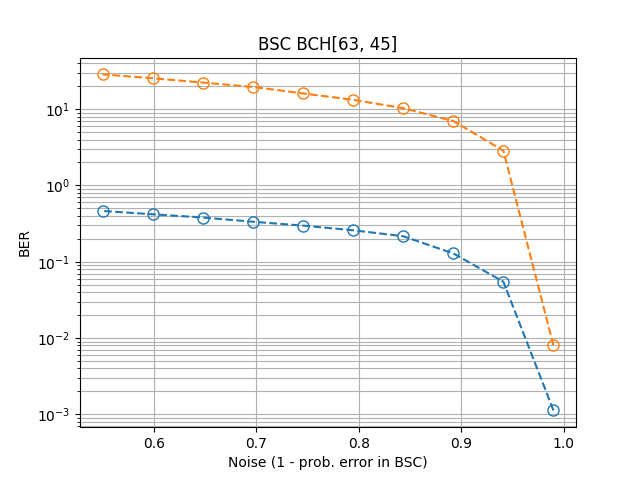
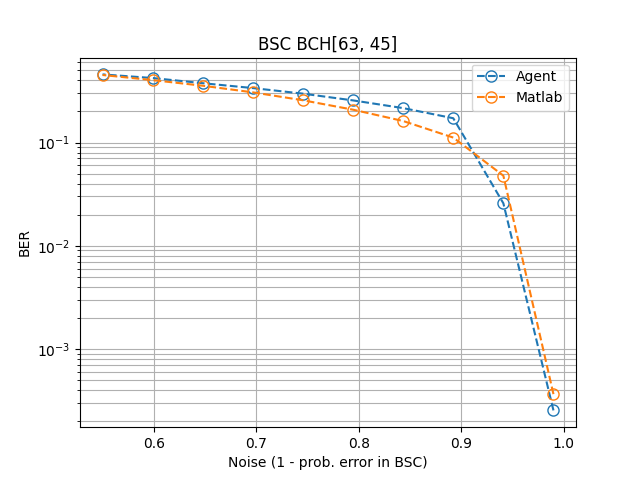
March 26th

Changed region(s): [[0.0625, 0.125, 0.9062, 0.9062], [0.0625, 0.8438, 0.0938, 0.875]]

diff --git a/MATLAB/rmdec_reed.m b/MATLAB/rmdec_reed.m
@@ -1,0 +1,55 @@
+function [decodedCodeword,decodedMessage] = rmdec_reed(y,r,m)
+% function [decodedCodeword,decodedMessage] = rmdec_reed(codeword,r,m)
+% 
+% RMDEC_REED decodes an RM(r,m) codeword using Reed's majority-logic algorithm.
+% 
+% Source:   [1] Reed-Muller Codes: Theory and Algorithms by Emmanuel Abbe, Amir
+%               Shpilka and Min Ye, 2020.
+%           [2] Reed-Muller Codes, Sebastian Raaphorst, Carleton University, 2003.
+% 
+% Written by Yuval Ben-Hur, 03/03/2020
+% 
+
+if ~isequal(size(y),[2^m,1]) && ~isequal(size(y),[1,2^m])
+    error('Invalid input size.');
+end
+if ~all(y==1 | y==0)
+    error('Only binary RM supported.'); 
+end
+
+y = y(:).';
+
+Z = de2bi(2^m-1:-1:0,'right-msb').';
+[~,AscendingOrder] = sort(sum(Z,1),'ascend');
+Z_ = Z(:,AscendingOrder);
+Z_r = Z_(:,sum(Z_,1)<=r);
+
+kRM = size(Z_r,2);
+decodedMessage = zeros(1,kRM); % initialize decoded message
+for ii = kRM : -1 : 1
+    % define monom
+    A = find(Z_r(:,ii)); % monom variables
+    t = numel(A); % monom rank
+    % define cosets
+    logic = [];
+    if t==0 % A is the empty set {}
+        z = 1 : 2^m;
+        logic = y(z);
+    elseif t==m % A is the full set {1,...,m}
+        logic = mod(sum(y),2);
+    else
+        cosets = de2bi(0:1:2^(m-t)-1,m-t,'right-msb').';
+        % sum over each coset
+        for b = cosets
+            z = all(Z(setdiff(1:m,A),:) == b,1);
+            logic = [logic mod(sum(y(z)),2)];
+        end
+    end
+    decodedMessage(ii) = mode(logic); % decoded bit is majority of logic
+    % if next rank is different, reduce monomials of previous rank
+    if ii==1 || numel(find(Z_r(:,ii-1)))<t
+        y = mod(y - rmenc_v2(decodedMessage.*(sum(Z_r,1)==t),r,m),2);
+    end
+end
+
+decodedCodeword = rmenc_v2(decodedMessage,r,m);

diff --git a/MATLAB/benchmark.m b/MATLAB/benchmark.m
@@ -1,0 +1,56 @@
+clear; close all; clc;
+
+run_bch = false;
+run_rm = true;
+
+%% BCH
+if run_bch == true
+    n = 63;   % Codeword length
+    k = 45;   % Message length
+    nwords = 1000; % Number of words to encode
+    msgTx = gf(randi([0 1],nwords,k));
+    enc = bchenc(msgTx,n,k);
+    BER = zeros(10);
+    trial = 1;
+    for noise_i = linspace(0.01, 0.45, 10)
+        noisycode = bsc(enc,noise_i); % Binary symmetric channel
+        [decoded,cnumerr,ccode]= bchdec(noisycode,n,k);
+        x = sum(xor(enc.x, ccode.x), 2);
+        BER(trial) = sum(x, 1) / (n*length(x));
+        trial = trial + 1;
+    end
+    
+    save('../benchmark/BER_BCH_63_45.mat', "BER");
+    
+    
+    figure;
+    semilogy(linspace(0.45, 0.01, 10), BER, '--o')
+end
+%% Reed-Muller 
+if run_rm == true
+    clear; clc;
+    load("../Hmat/RM_3_6_std.mat")
+    [k, n] = size(G);
+    nwords = 1000; % Number of words to encode
+    
+    msgTx = randi([0 1],nwords,k);
+    enc = mod(msgTx*G, 2);
+    BER = zeros(10);
+    trial = 1;
+    for noise_i = linspace(0.01, 0.45, 10)
+        noisycode = bsc(enc,noise_i); % Binary symmetric channel
+        x = 0;
+        parfor code_i = 1:nwords
+            [decoded_cw, ~]= rmdec_reed(noisycode(code_i, :),3,6);
+            x = x + sum(xor(enc(code_i, :), decoded_cw), 2);
+        end
+        BER(trial) = sum(x, 1) / (n* length(x));
+        trial = trial + 1;
+    end
+    
+    save('../benchmark/BER_RM_3_6.mat', "BER");
+    
+    
+    figure;
+    semilogy(linspace(0.45, 0.01, 10), BER, '--o')
+end

diff --git a/sarsa.py b/sarsa.py
@@ -61,19 +61,25 @@ def test(env, num_runs, optimal_Q, EbN0=0.1):
     BER = 0
     policy = lambda state : np.argmax(optimal_Q[state])
     env.set_noise(EbN0)
+    max_iters = 10
     for iter in range(num_runs):
         state = env.reset()
         if np.all(optimal_Q[state][0]) == 0:
             print("Agent has not seen codeword yet.")
             break
         action = policy(state)
+        i = 0
         while True:
             next_state, _, done, _ = env.step(action)
-            if not done:
+            if not done and i < max_iters:
                 next_action = policy(next_state)
                 state = next_state
                 action = next_action
             if done:
                 break
+            if i >= max_iters:
+                print("Agent unable to decode")
+                break
+            i += 1
         BER += np.sum(env.z ^ env.codeword) / len(env.z)
     return BER/num_runs

diff --git a/MATLAB/Eval.m b/MATLAB/Eval.m
@@ -1,0 +1,31 @@
+function [ c ] = Eval(f,z)
+% function [ c ] = Eval(f,z)
+%EVAL outputs the evaluation of a polynomial f in vector z. In case the 
+% function is called only with the polynomial, it outputs all evaluations
+% of the polynomial.
+% 
+% Example: In case f = m_1 + m_2 + ... + m_n 
+%       where each m_i = (x_0)^p_{1,i} + ... * (x_{m-1})^p_{m,i} is a monom
+% 
+% for example, 
+%   let f = x_3 + x_1*x_2 and m=4. the corresponding
+%   matrix is [ [0;0;0;1], [0;1;1;0] ].
+% 
+%   let f = 1 + x_0*x_1*x_2 and m=3. the corresponding
+%   matrix is [ [0;0;0], [1;1;1] ].
+% 
+
+m = size(f,1); % # of variables
+n = size(f,2); % # of monoms
+
+if nargin<2 % {f(z) : z \in F_2 ^m}
+    Z = de2bi(0 : 1 : 2^m-1).';
+else % f(z)
+    Z = z;
+end
+c = zeros(1,size(Z,2));
+for zz = 1 : 1 : size(Z,2)
+    z = Z(:,zz);
+    c(zz) = sum(prod(repmat(z,[1,n]) .^ f,1),2);
+end
+c = mod(c,2);

diff --git a/main.py b/main.py
@@ -29,8 +29,8 @@ def plot_BER(x_vars, y_vars, units, title):
     plt.title(title)
     plt.grid(visible=True, which='both', axis='y')
     plt.grid(visible=True, which='major', axis='x')
-    plt.savefig('./figs/' + figure_name + '.png')
     plt.legend()
+    plt.savefig('./figs/' + figure_name + '.png')
     plt.show()
 
 
@@ -63,8 +63,8 @@ if __name__ == '__main__':
             Q_sarsa = pickle.load(file)
     elif train == True:
         Q_sarsa = sarsa.train(env, int(3e6), 0.1)
-        with open('./policies/' + policy_name + '.pkl', 'wb') as file:
-            pickle.dump(Q_sarsa, file)
+        # with open('./policies/' + policy_name + '.pkl', 'wb') as file:
+        #     pickle.dump(Q_sarsa, file)
     
     ## Evaluate model ##
     BER = []

diff --git a/MATLAB/rmenc_v2.m b/MATLAB/rmenc_v2.m
@@ -1,0 +1,19 @@
+function codeword = rmenc_v2(message,r,m)
+% function codeword = rmenc_v2(message,r,m)
+% 
+% RMENC encodes a binary message to an RM(r,m) codeword by polynomial evaluation.
+% 
+% Source:   [1] Reed-Muller Codes: Theory and Algorithms by Emmanuel Abbe, Amir
+%               Shpilka and Min Ye, 2020.
+% 
+% Written by Yuval Ben-Hur, 26/02/2020
+% Updated by Yuval Ben-Hur, 03/03/2020
+% 
+
+Z = de2bi(2^m-1:-1:0,'right-msb').';
+[~,AscendingOrder] = sort(sum(Z,1),'ascend');
+Z = Z(:,AscendingOrder);
+
+Z_r = Z(:,sum(Z,1)<=r);
+
+codeword = flip(Eval(Z_r(:,logical(message))));

diff --git a/README.md b/README.md
@@ -8,7 +8,16 @@ Download requirements.txt:
 1. ```pip install -r /path/to/requirements.txt```
 
  ## Files 
-- ```main.py ```tests if the environment works
-- ```bf_env.py``` is an OpenAI gym environment
-- ```sarsa.py``` is uncompleted 
-- ```bf_decoding.py``` is the code for algorithm 1 which is from the paper. 
+- ```main.py ``` driver code to train/evaluate the agent and compare results with benchmark
+- ```bf_env.py``` is an OpenAI gym environment for bit flipping environment
+- ```sarsa.py``` runs sarsa algorithm using e-greedy policy 
+- ```bf_decoding.py``` (old)
+- ```channel.py``` models AWGN and BSC channels 
+- ```codes.py``` is used to load generator and parity check matrices to define the type of code the agent will be decoding
+
+## Folders
+- ```/Hmat``` holds generator and parity check matricies for codes in .mat format; see [here](https://github.com/fabriziocarpi/RLdecoding)
+- ```/MATLAB`` runs benchmark decoding algorithms in matlab
+- ```/policies``` saves the Q table for a specific code after training the agent using sarsa (too large for repository)
+- ```/benchmark``` holds .mat files for BER using MATLAB decoding algorithms
+- ```/figs``` figures from training and BER comparison
